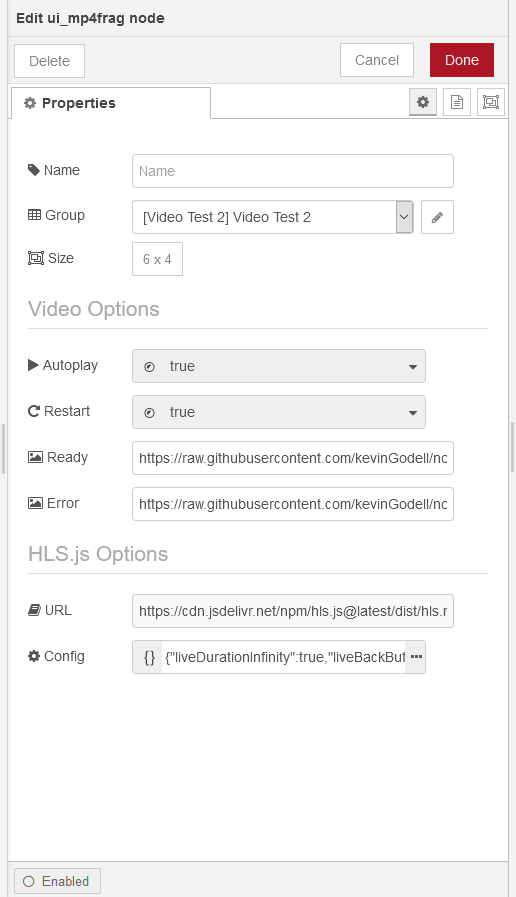
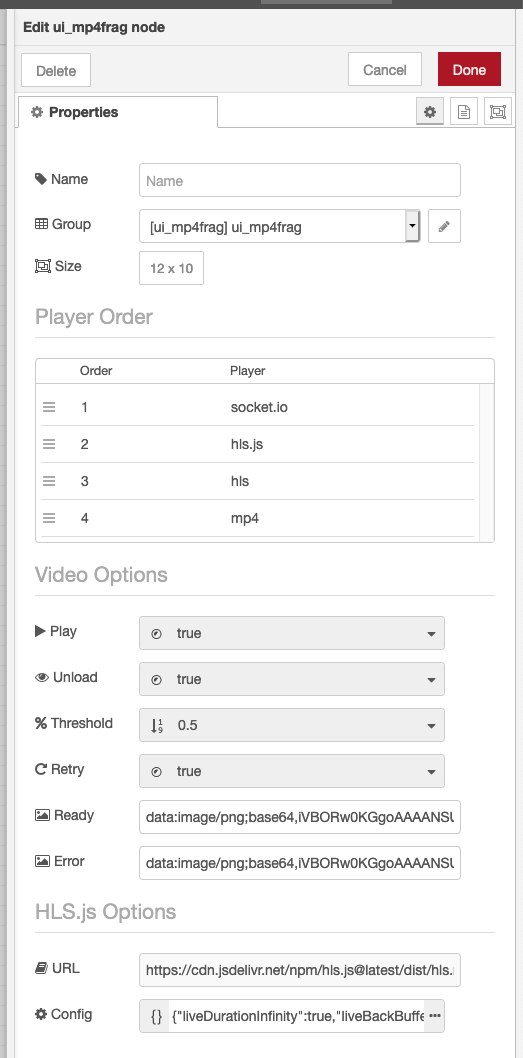
update example to reflect current node dev

diff --git a/README.md b/README.md
@@ -1,9 +1,113 @@
 # node-red-contrib-ui-mp4frag
 
 #### Flow Examples
-- Multiple inputs:
+- Single input of externally hosted HLS M3U8 playlist:
+##### Flow:
 ```json
-[{"id":"80969b76.764fc8","type":"tab","label":"Video Test 2","disabled":false,"info":""},{"id":"42030e.9afbb4f4","type":"inject","z":"80969b76.764fc8","name":"Sintel","props":[{"p":"payload"}],"repeat":"","crontab":"","once":false,"onceDelay":0.1,"topic":"","payload":"https://commondatastorage.googleapis.com/gtv-videos-bucket/CastVideos/hls/Sintel.m3u8","payloadType":"str","x":136,"y":157,"wires":[["c3f14086.b7964"]]},{"id":"c3f14086.b7964","type":"ui_mp4frag","z":"80969b76.764fc8","name":"","group":"c1a8b6f8.c0022","order":3,"width":"6","height":4,"readyPoster":"https://raw.githubusercontent.com/kevinGodell/node-red-contrib-ui-mp4frag/master/video_playback_ready.png","errorPoster":"https://raw.githubusercontent.com/kevinGodell/node-red-contrib-ui-mp4frag/master/video_playback_error.png","hlsJsConfig":"{\"liveDurationInfinity\":true,\"liveBackBufferLength\":0,\"maxBufferLength\":5,\"manifestLoadingTimeOut\":1000,\"manifestLoadingMaxRetry\":10,\"manifestLoadingRetryDelay\":500}","restart":"true","autoplay":"true","x":481,"y":156,"wires":[[]]},{"id":"2a1133d2.816f2c","type":"inject","z":"80969b76.764fc8","name":"Elephants Dream","props":[{"p":"payload"}],"repeat":"","crontab":"","once":false,"onceDelay":0.1,"topic":"","payload":"https://commondatastorage.googleapis.com/gtv-videos-bucket/CastVideos/hls/ElephantsDream.m3u8","payloadType":"str","x":165,"y":216,"wires":[["c3f14086.b7964"]]},{"id":"bd240e19.706d48","type":"inject","z":"80969b76.764fc8","name":"Big Buck Bunny","props":[{"p":"payload"}],"repeat":"","crontab":"","once":false,"onceDelay":0.1,"topic":"","payload":"https://commondatastorage.googleapis.com/gtv-videos-bucket/CastVideos/hls/BigBuckBunny.m3u8","payloadType":"str","x":166,"y":97,"wires":[["c3f14086.b7964"]]},{"id":"c1a8b6f8.c0022","type":"ui_group","z":"","name":"Video Test 2","tab":"2418e319.003404","order":1,"disp":true,"width":"6","collapse":false},{"id":"2418e319.003404","type":"ui_tab","z":"","name":"Video Test 2","icon":"dashboard","disabled":false,"hidden":false}]
[1 lines of base64/hex data omitted]
+```
+##### Flow (expanded view):
+```json
+[
+    {
+        "id": "dca8ac61.23c6a",
+        "type": "ui_mp4frag",
+        "z": "fa69c1bc.78072",
+        "name": "",
+        "group": "3bf2d7f7.4ee878",
+        "order": 1,
+        "width": "12",
+        "height": "10",
[2 lines of base64/hex data omitted]
+        "hlsJsConfig": "{\"liveDurationInfinity\":true,\"liveBackBufferLength\":5,\"maxBufferLength\":10,\"manifestLoadingTimeOut\":1000,\"manifestLoadingMaxRetry\":10,\"manifestLoadingRetryDelay\":500}",
+        "retry": true,
+        "play": true,
+        "unload": true,
+        "threshold": 0.5,
+        "players": [
+            "socket.io",
+            "hls.js",
+            "hls",
+            "mp4"
+        ],
+        "x": 420,
+        "y": 160,
+        "wires": [
+            []
+        ]
+    },
+    {
+        "id": "c4eb2a4f.916458",
+        "type": "inject",
+        "z": "fa69c1bc.78072",
+        "name": "France 24 News",
+        "props": [
+            {
+                "p": "payload"
+            }
+        ],
+        "repeat": "",
+        "crontab": "",
+        "once": false,
+        "onceDelay": 0.1,
+        "topic": "",
+        "payload": "http://f24hls-i.akamaihd.net/hls/live/221147/F24_EN_HI_HLS/master_2000.m3u8",
+        "payloadType": "str",
+        "x": 180,
+        "y": 140,
+        "wires": [
+            [
+                "dca8ac61.23c6a"
+            ]
+        ]
+    },
+    {
+        "id": "84648ecb.e3c89",
+        "type": "inject",
+        "z": "fa69c1bc.78072",
+        "name": "unload video source",
+        "props": [
+            {
+                "p": "payload"
+            }
+        ],
+        "repeat": "",
+        "crontab": "",
+        "once": false,
+        "onceDelay": 0.1,
+        "topic": "",
+        "payload": "",
+        "payloadType": "str",
+        "x": 190,
+        "y": 200,
+        "wires": [
+            [
+                "dca8ac61.23c6a"
+            ]
+        ]
+    },
+    {
+        "id": "3bf2d7f7.4ee878",
+        "type": "ui_group",
+        "z": "",
+        "name": "ui_mp4frag",
+        "tab": "db70d53e.369ce8",
+        "order": 1,
+        "disp": true,
+        "width": "12",
+        "collapse": false
+    },
+    {
+        "id": "db70d53e.369ce8",
+        "type": "ui_tab",
+        "z": "",
+        "name": "ui_mp4frag",
+        "icon": "dashboard",
+        "disabled": false,
+        "hidden": false
+    }
+]
 ```
 #### Screenshots
 ![ui_mp4frag flow](https://raw.githubusercontent.com/kevinGodell/node-red-contrib-ui-mp4frag/master/screenshots/ui_mp4frag_flow.png)
